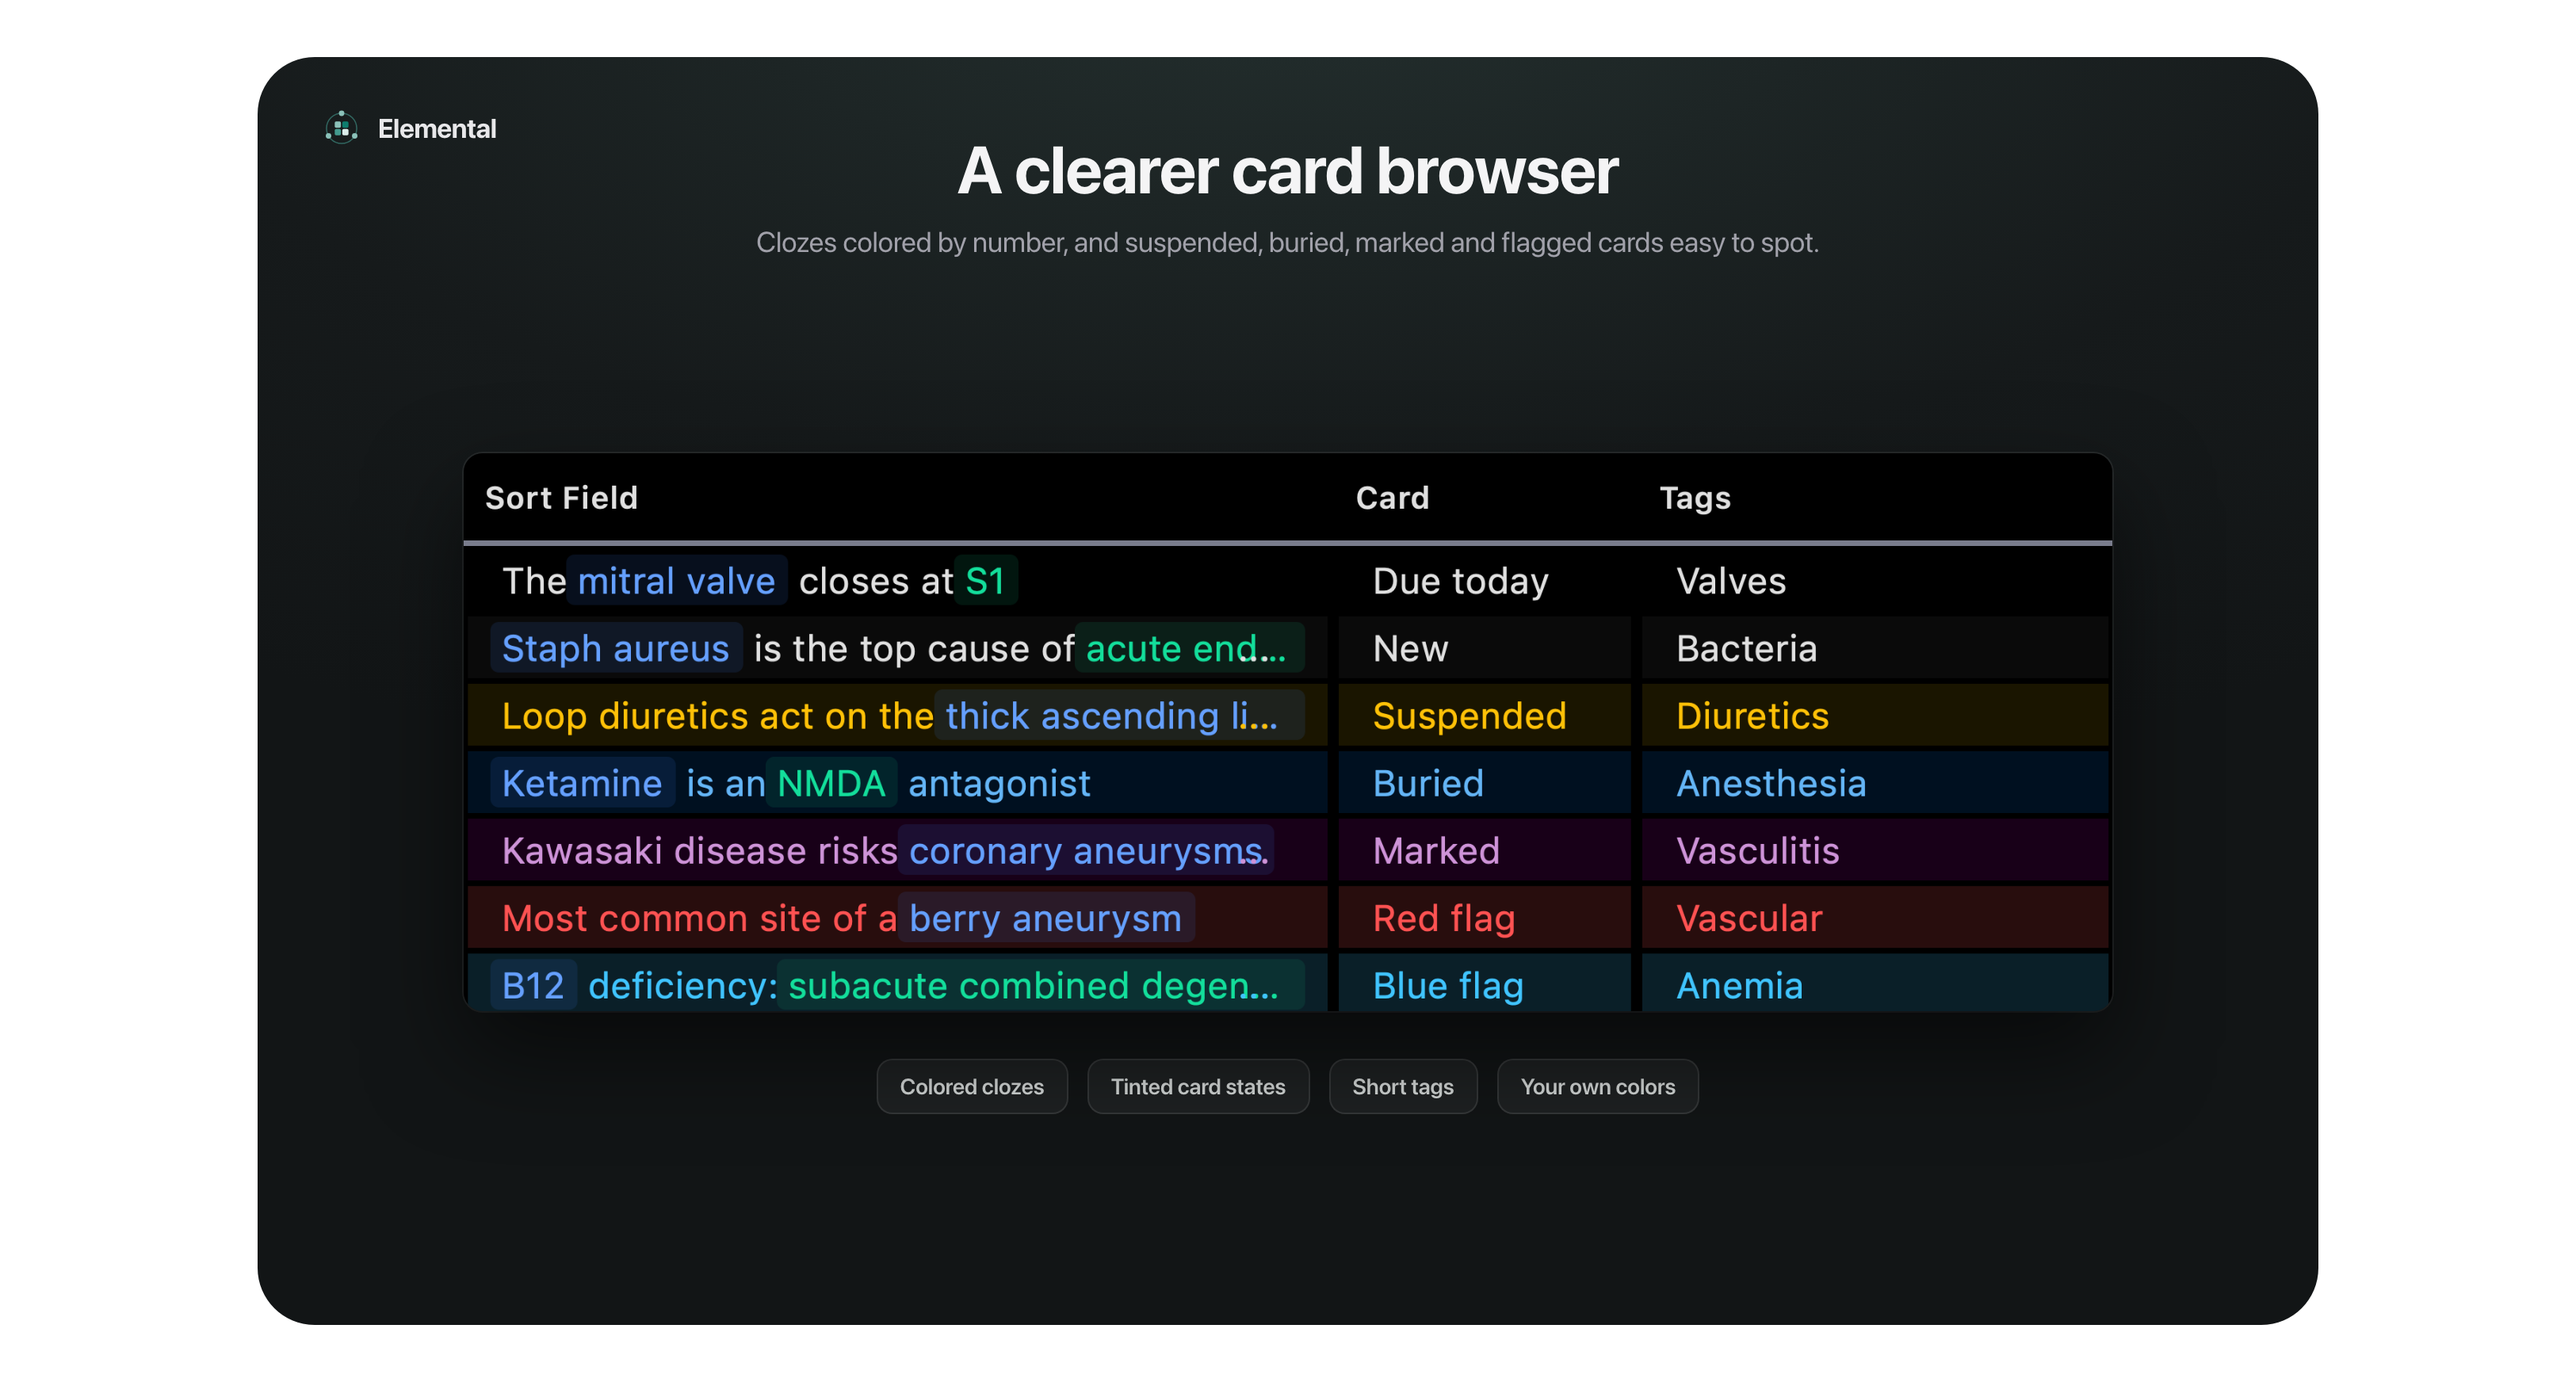
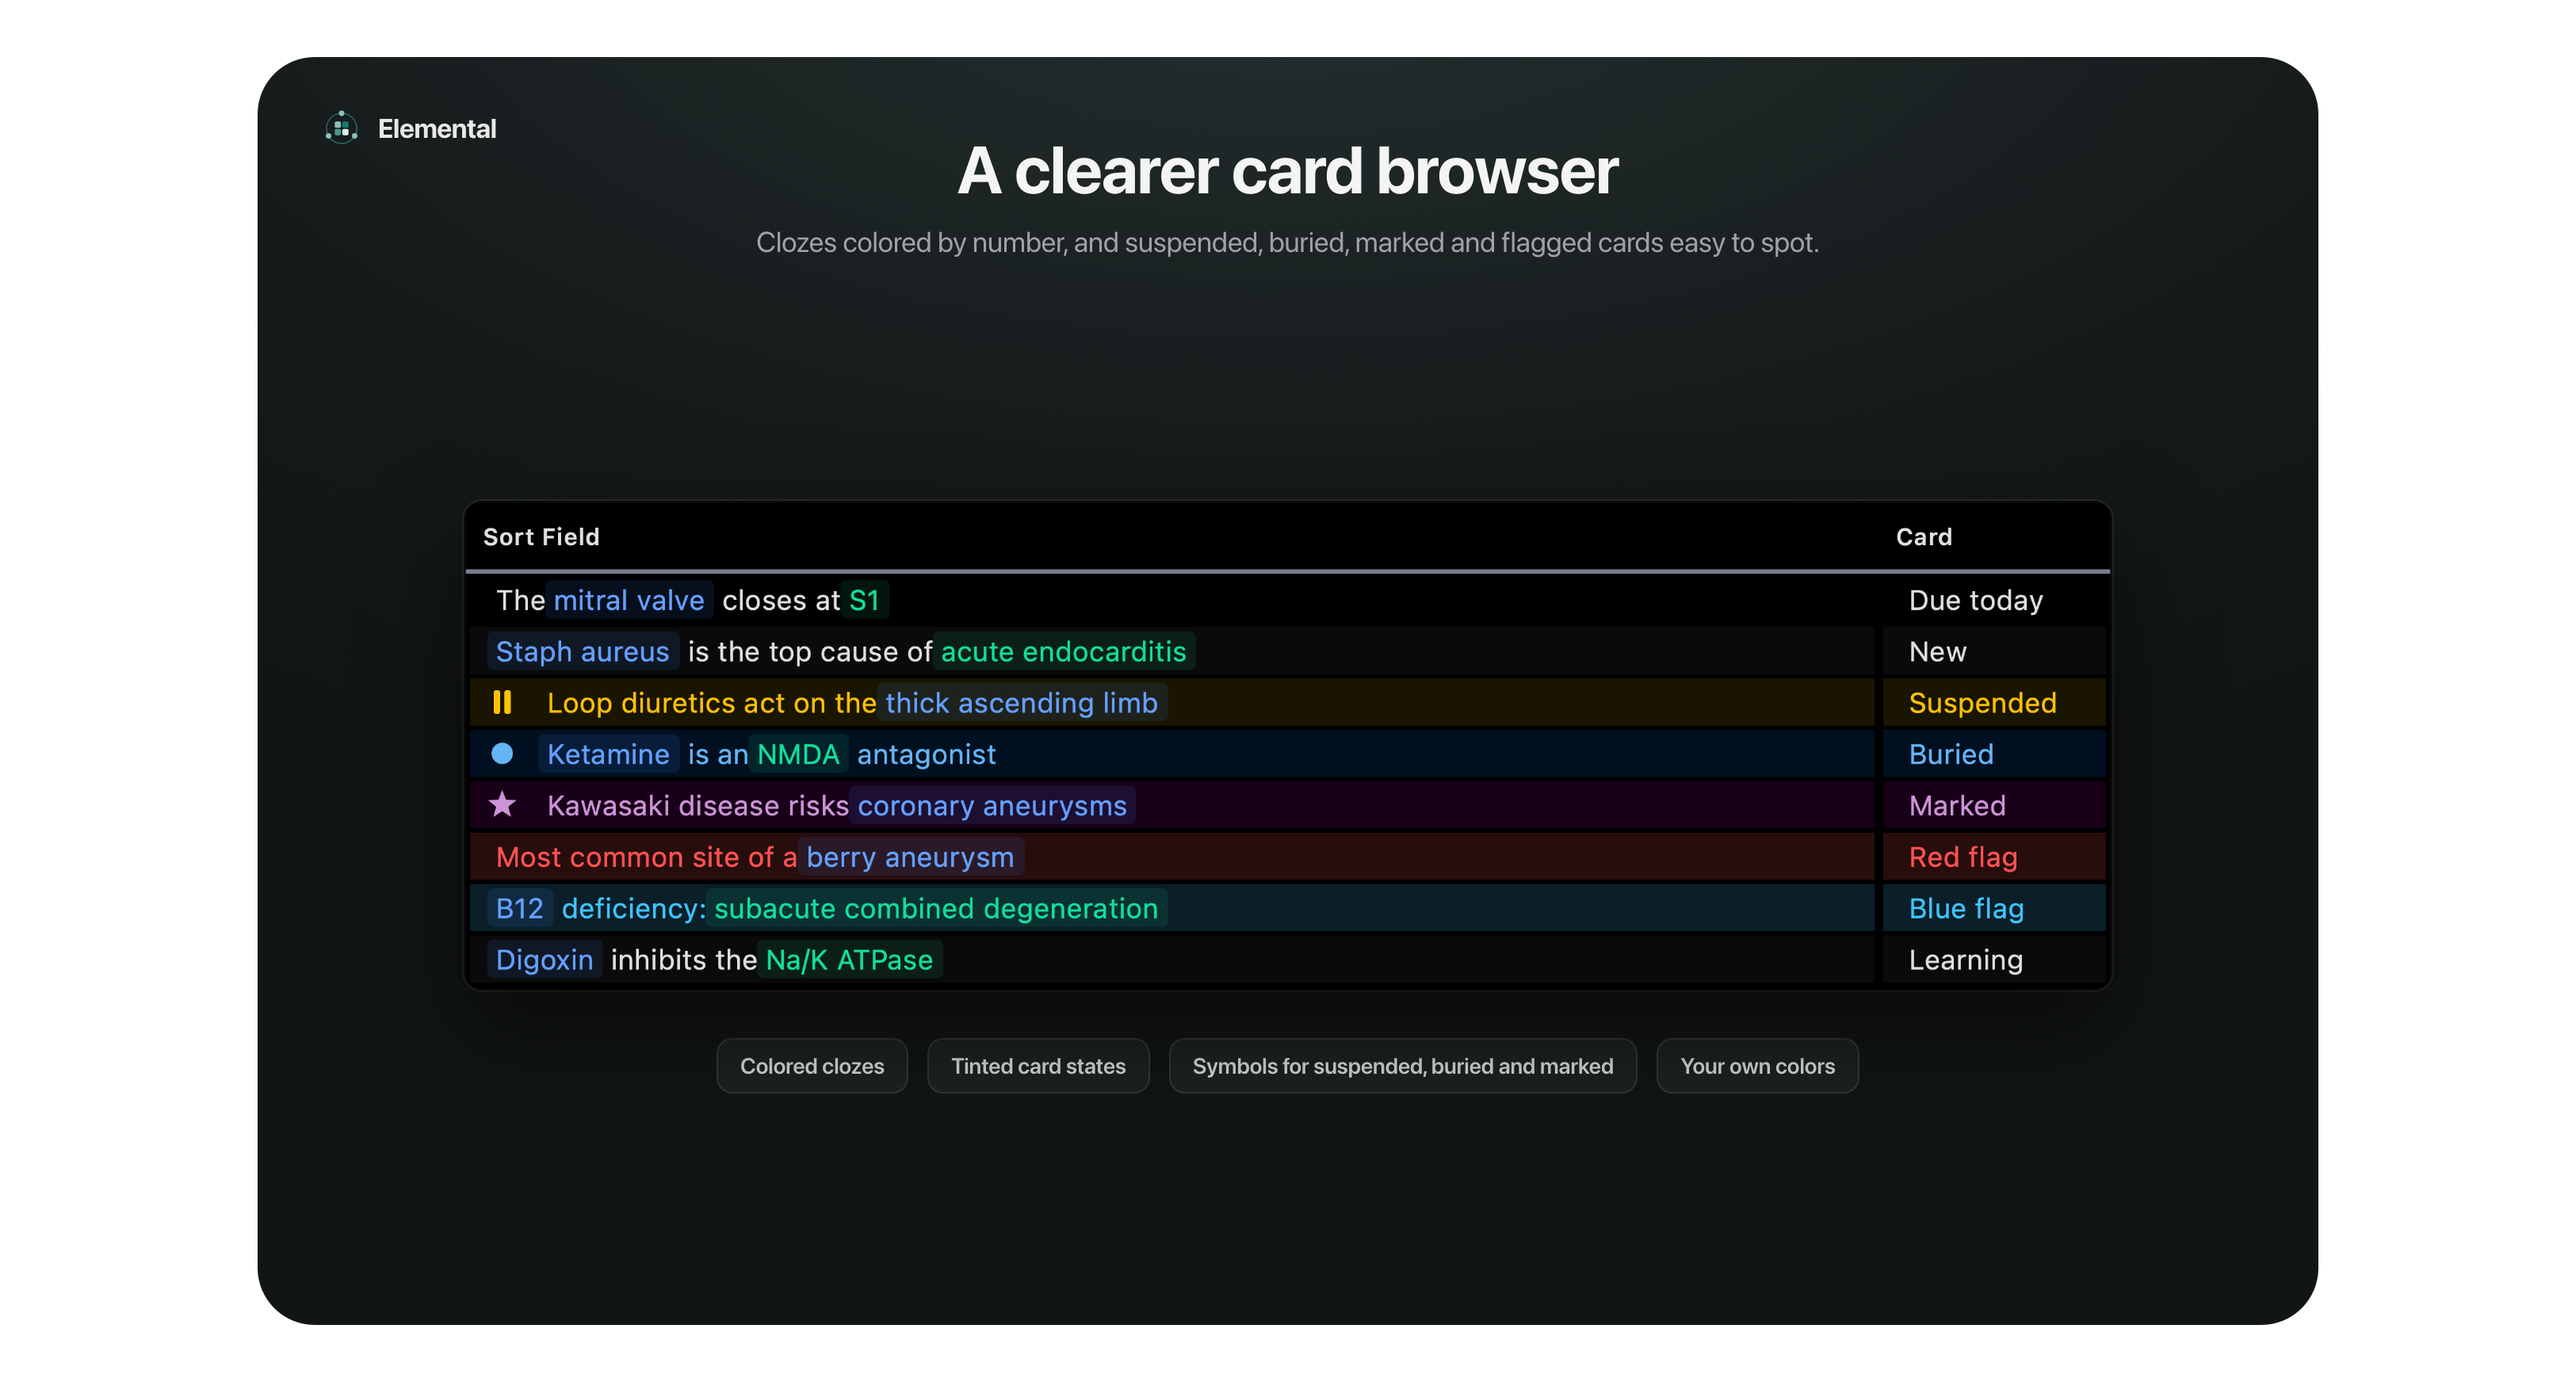
Card browser poster: wider note field, state symbols, no Tags column

Changed region(s): [[0.1554, 0.3096, 0.8391, 0.805]]

diff --git a/promo/source/make_posters.py b/promo/source/make_posters.py
@@ -288,13 +288,13 @@ pages["06-card-browser"] = (1300, 800, f"""<style>{BASE}
 .mark{{position:absolute;left:40px;top:32px;font-size:17px;color:#e8e8ea}}
 .head{{text-align:center;padding-top:46px}}h1{{font-size:42px;font-weight:700;letter-spacing:-.5px;margin:0}}
 .sub{{font-size:18px;color:#a1a1aa;margin:10px 0 0}}
-.st{{position:absolute;left:0;right:0;top:250px;display:flex;flex-direction:column;align-items:center;gap:30px}}
+.st{{position:absolute;left:0;right:0;top:280px;display:flex;flex-direction:column;align-items:center;gap:30px}}
 .keys{{display:flex;gap:12px}}.keys span{{font-size:14px;font-weight:600;color:#d4d8d7;padding:8px 14px;border-radius:10px;
  background:rgba(255,255,255,.05);border:1px solid rgba(255,255,255,.1)}}</style>
 <div class="mark">{logo(26)}Elemental</div>
 <div class="head"><h1>A clearer card browser</h1><div class="sub">Clozes colored by number, and suspended, buried, marked and flagged cards easy to spot.</div></div>
-<div class="st">{png("browser_mine_crop.png", 2348 / 2.257, 794 / 2.257, 1.0, "border-radius:12px")}
-<div class="keys"><span>Colored clozes</span><span>Tinted card states</span><span>Short tags</span><span>Your own colors</span></div></div>""")
+<div class="st">{png("browser_mine.png", 1040, 1040 * 916 / 3080, 1.0, "border-radius:12px")}
+<div class="keys"><span>Colored clozes</span><span>Tinted card states</span><span>Symbols for suspended, buried and marked</span><span>Your own colors</span></div></div>""")
 
 os.makedirs(os.path.join(HERE, "html"), exist_ok=True)
 with open(os.path.join(HERE, "list.txt"), "w") as lst:

diff --git a/promo/source/browser_cap.py b/promo/source/browser_cap.py
@@ -20,5 +20,11 @@ d = mod.HeatmapSettingsDialog(None); d.resize(940, 680); d.show()
 d.nav.setCurrentItem([it for it, *_ in d._pages if it.text() == "Card Browser"][0]); wait(600)
 print("theme", d.browser_theme_combo.currentData(), "| custom", d.chk_custom_colors.isChecked(), "| icons", d.chk_state_icons.isChecked(),
       "| spacing", d.browser_spacing_combo.currentData(), flush=True)
+# poster version: symbols on, no Tags column, wider note field, nothing selected
+d.chk_state_icons.setChecked(True); wait(300)
+t = d.browser_preview.table
+t.setColumnHidden(2, True); t.clearSelection(); t.item(7, 1).setText("Learning")
+d.resize(1120, 680); wait(500)
+print("icons now", d.chk_state_icons.isChecked(), "| preview width", d.browser_preview.width(), flush=True)
 img = d.browser_preview.grab(); img.save(os.path.join(S, "promo", "browser_mine.png")); print("saved", img.width(), img.height(), flush=True)
 os._exit(0)
